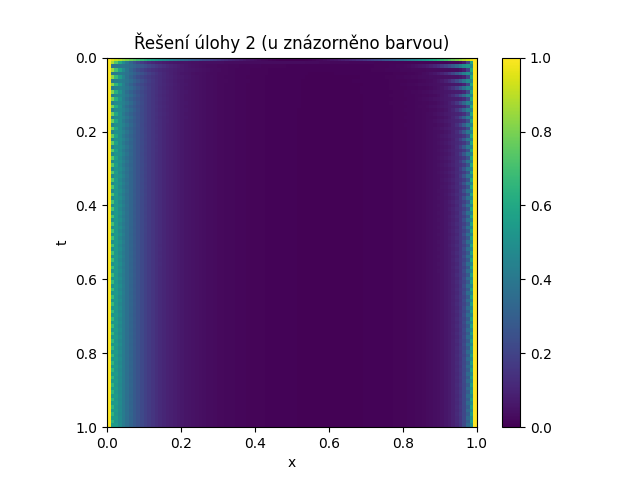
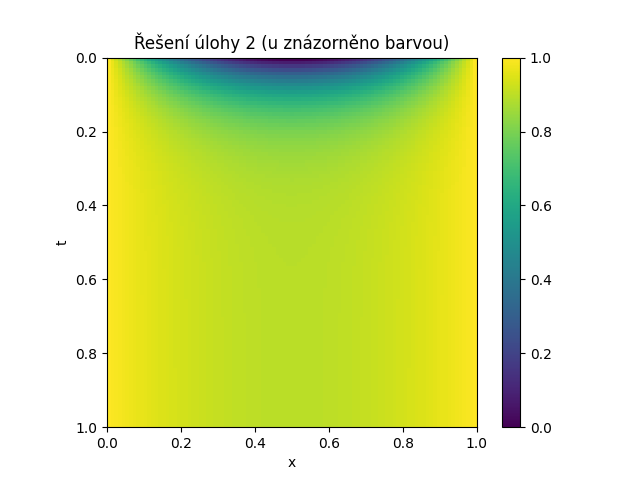
update tex

diff --git a/tex/protokol.tex b/tex/protokol.tex
@@ -268,8 +268,7 @@ Průběh řešení DR z úlohy 1 je znázorněn na grafu níže.
 \end{figure}
 
 Průběh řešení PDR z úlohy 2 je znázorněn na grafu níže.
-Je pozorována oscilace mezi jednotlivými řádky, avšak jen mírná a jen při krajích, kde je koncentrační gradient velice strmý. \\
-Pozn. snížení parametru $\delta$ vede k hladkému průběhu bez oscilací.
+Není pozorována oscilace, průběh funkce je v obou směrech hladký.
 \begin{figure}[H]
 \begin{center}
 	\includegraphics[width=0.75\textwidth]{uloha_2.png}
